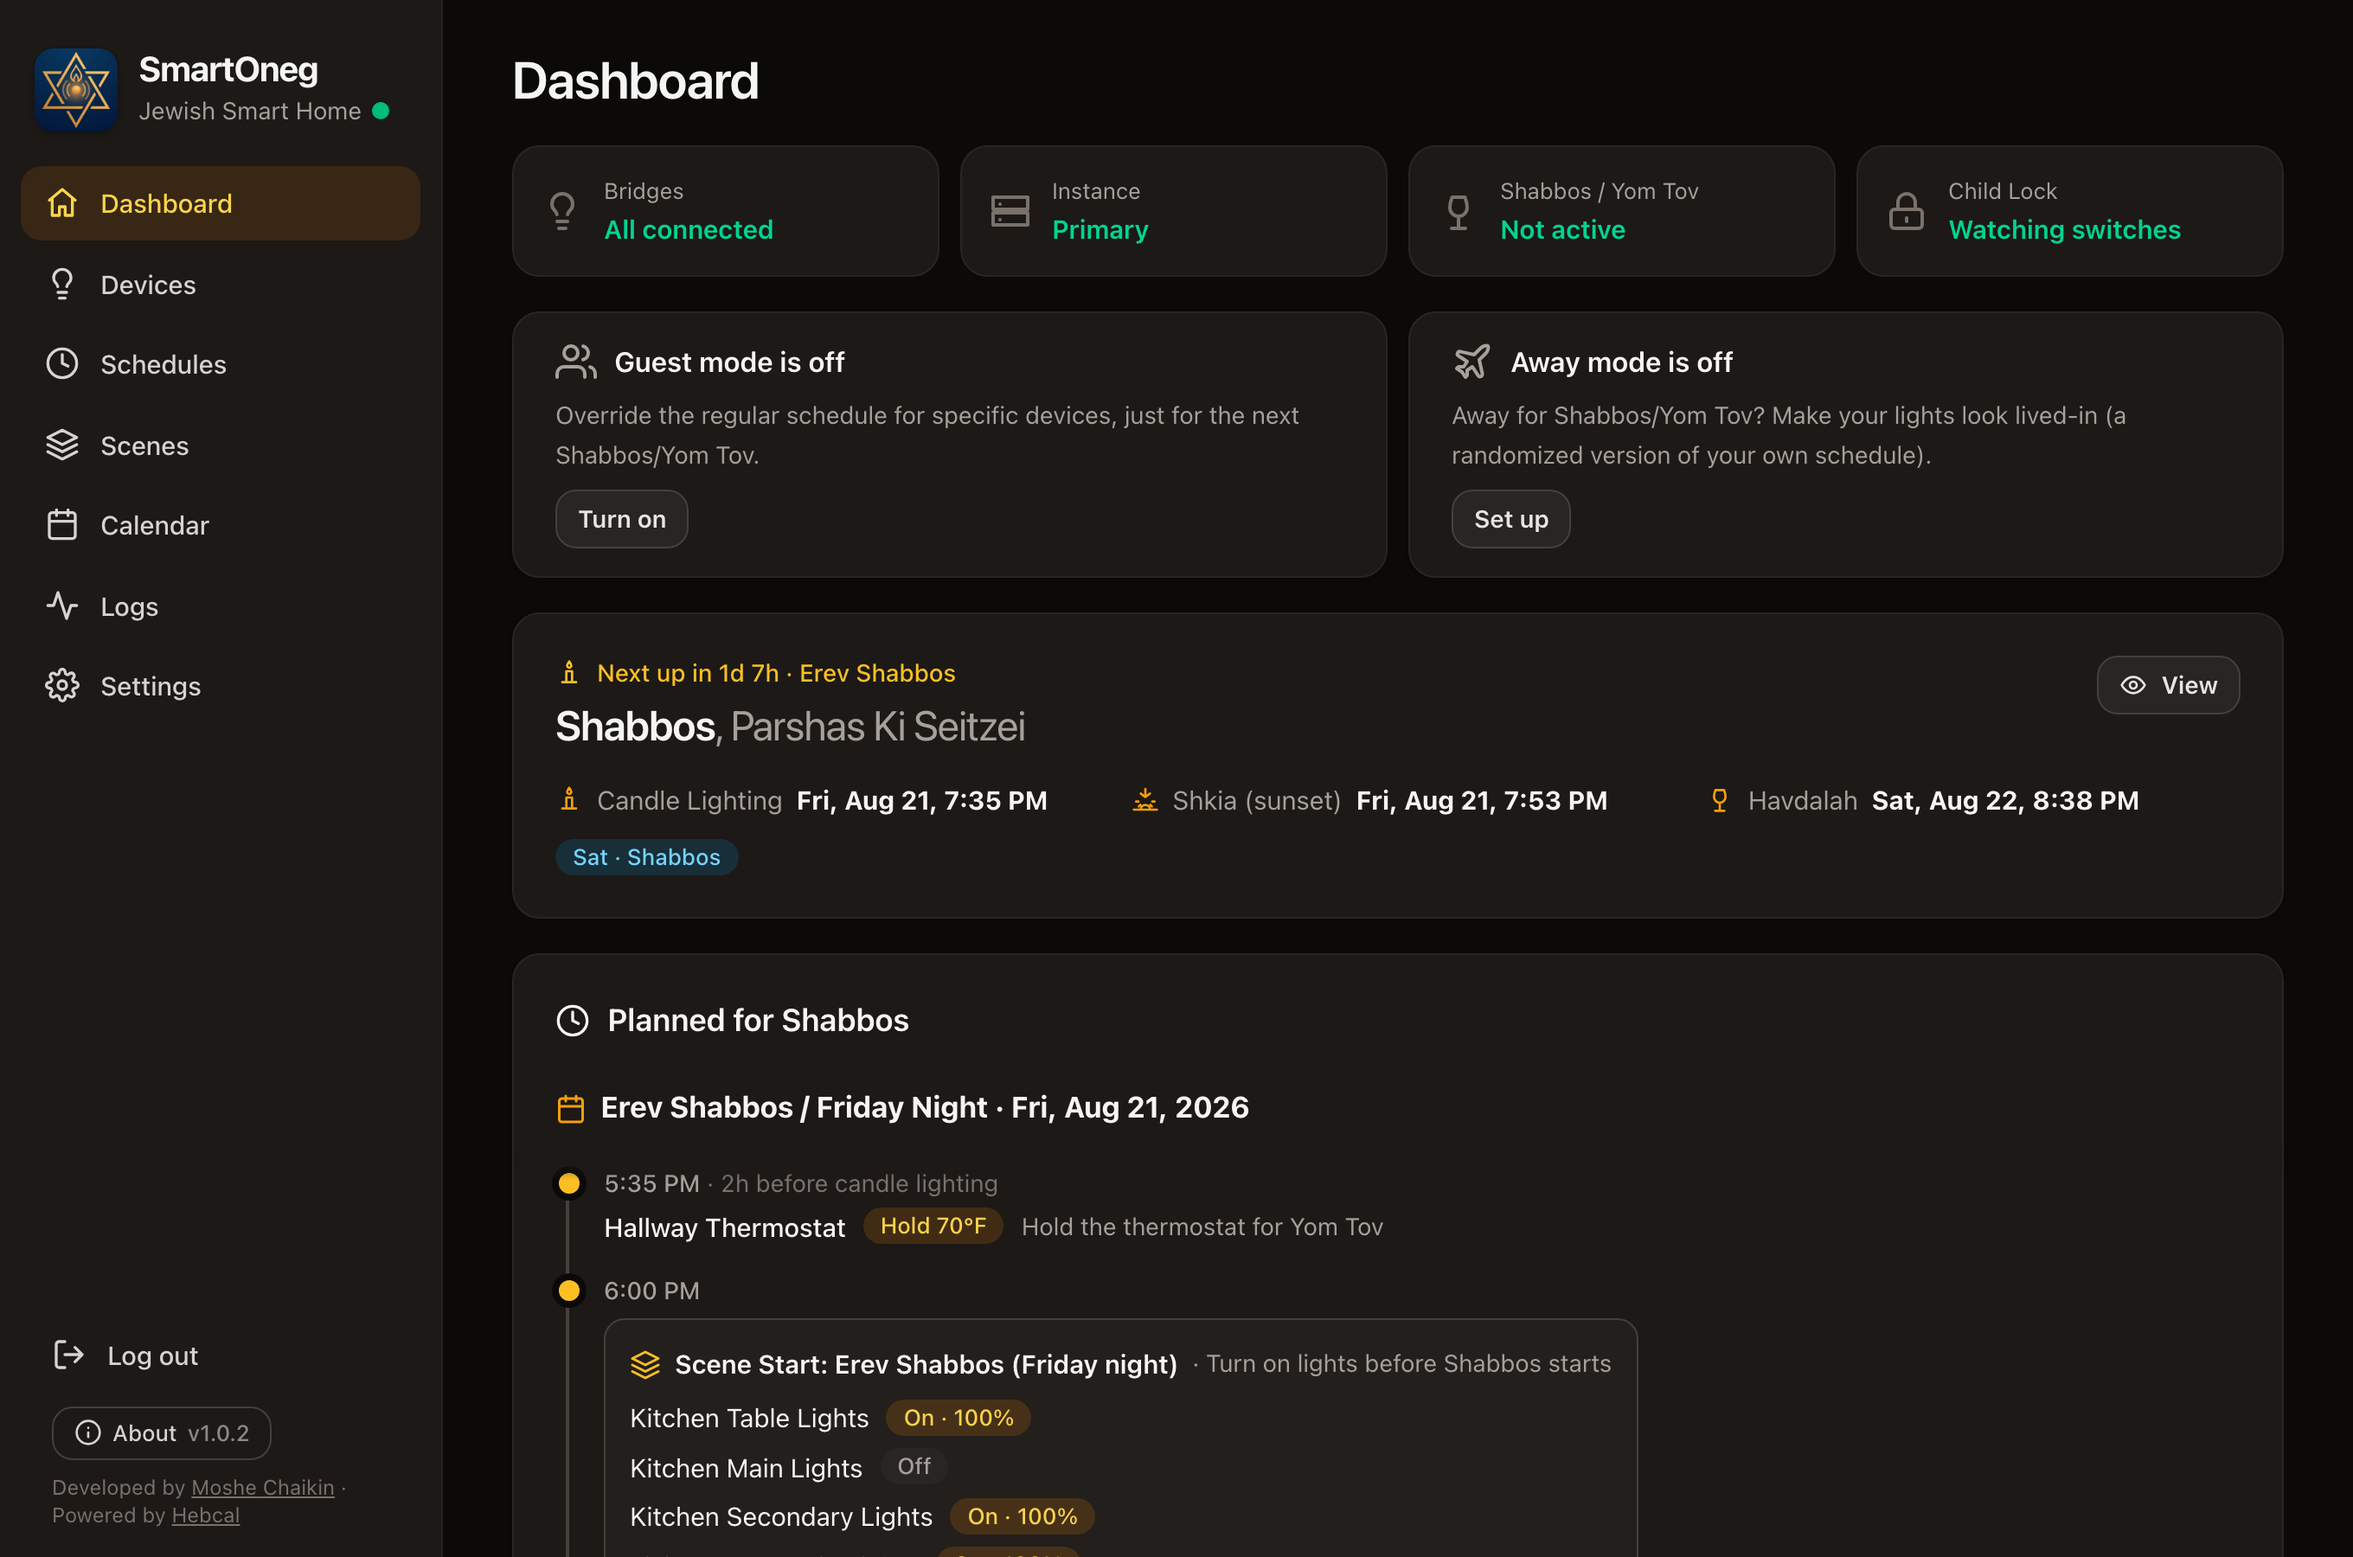
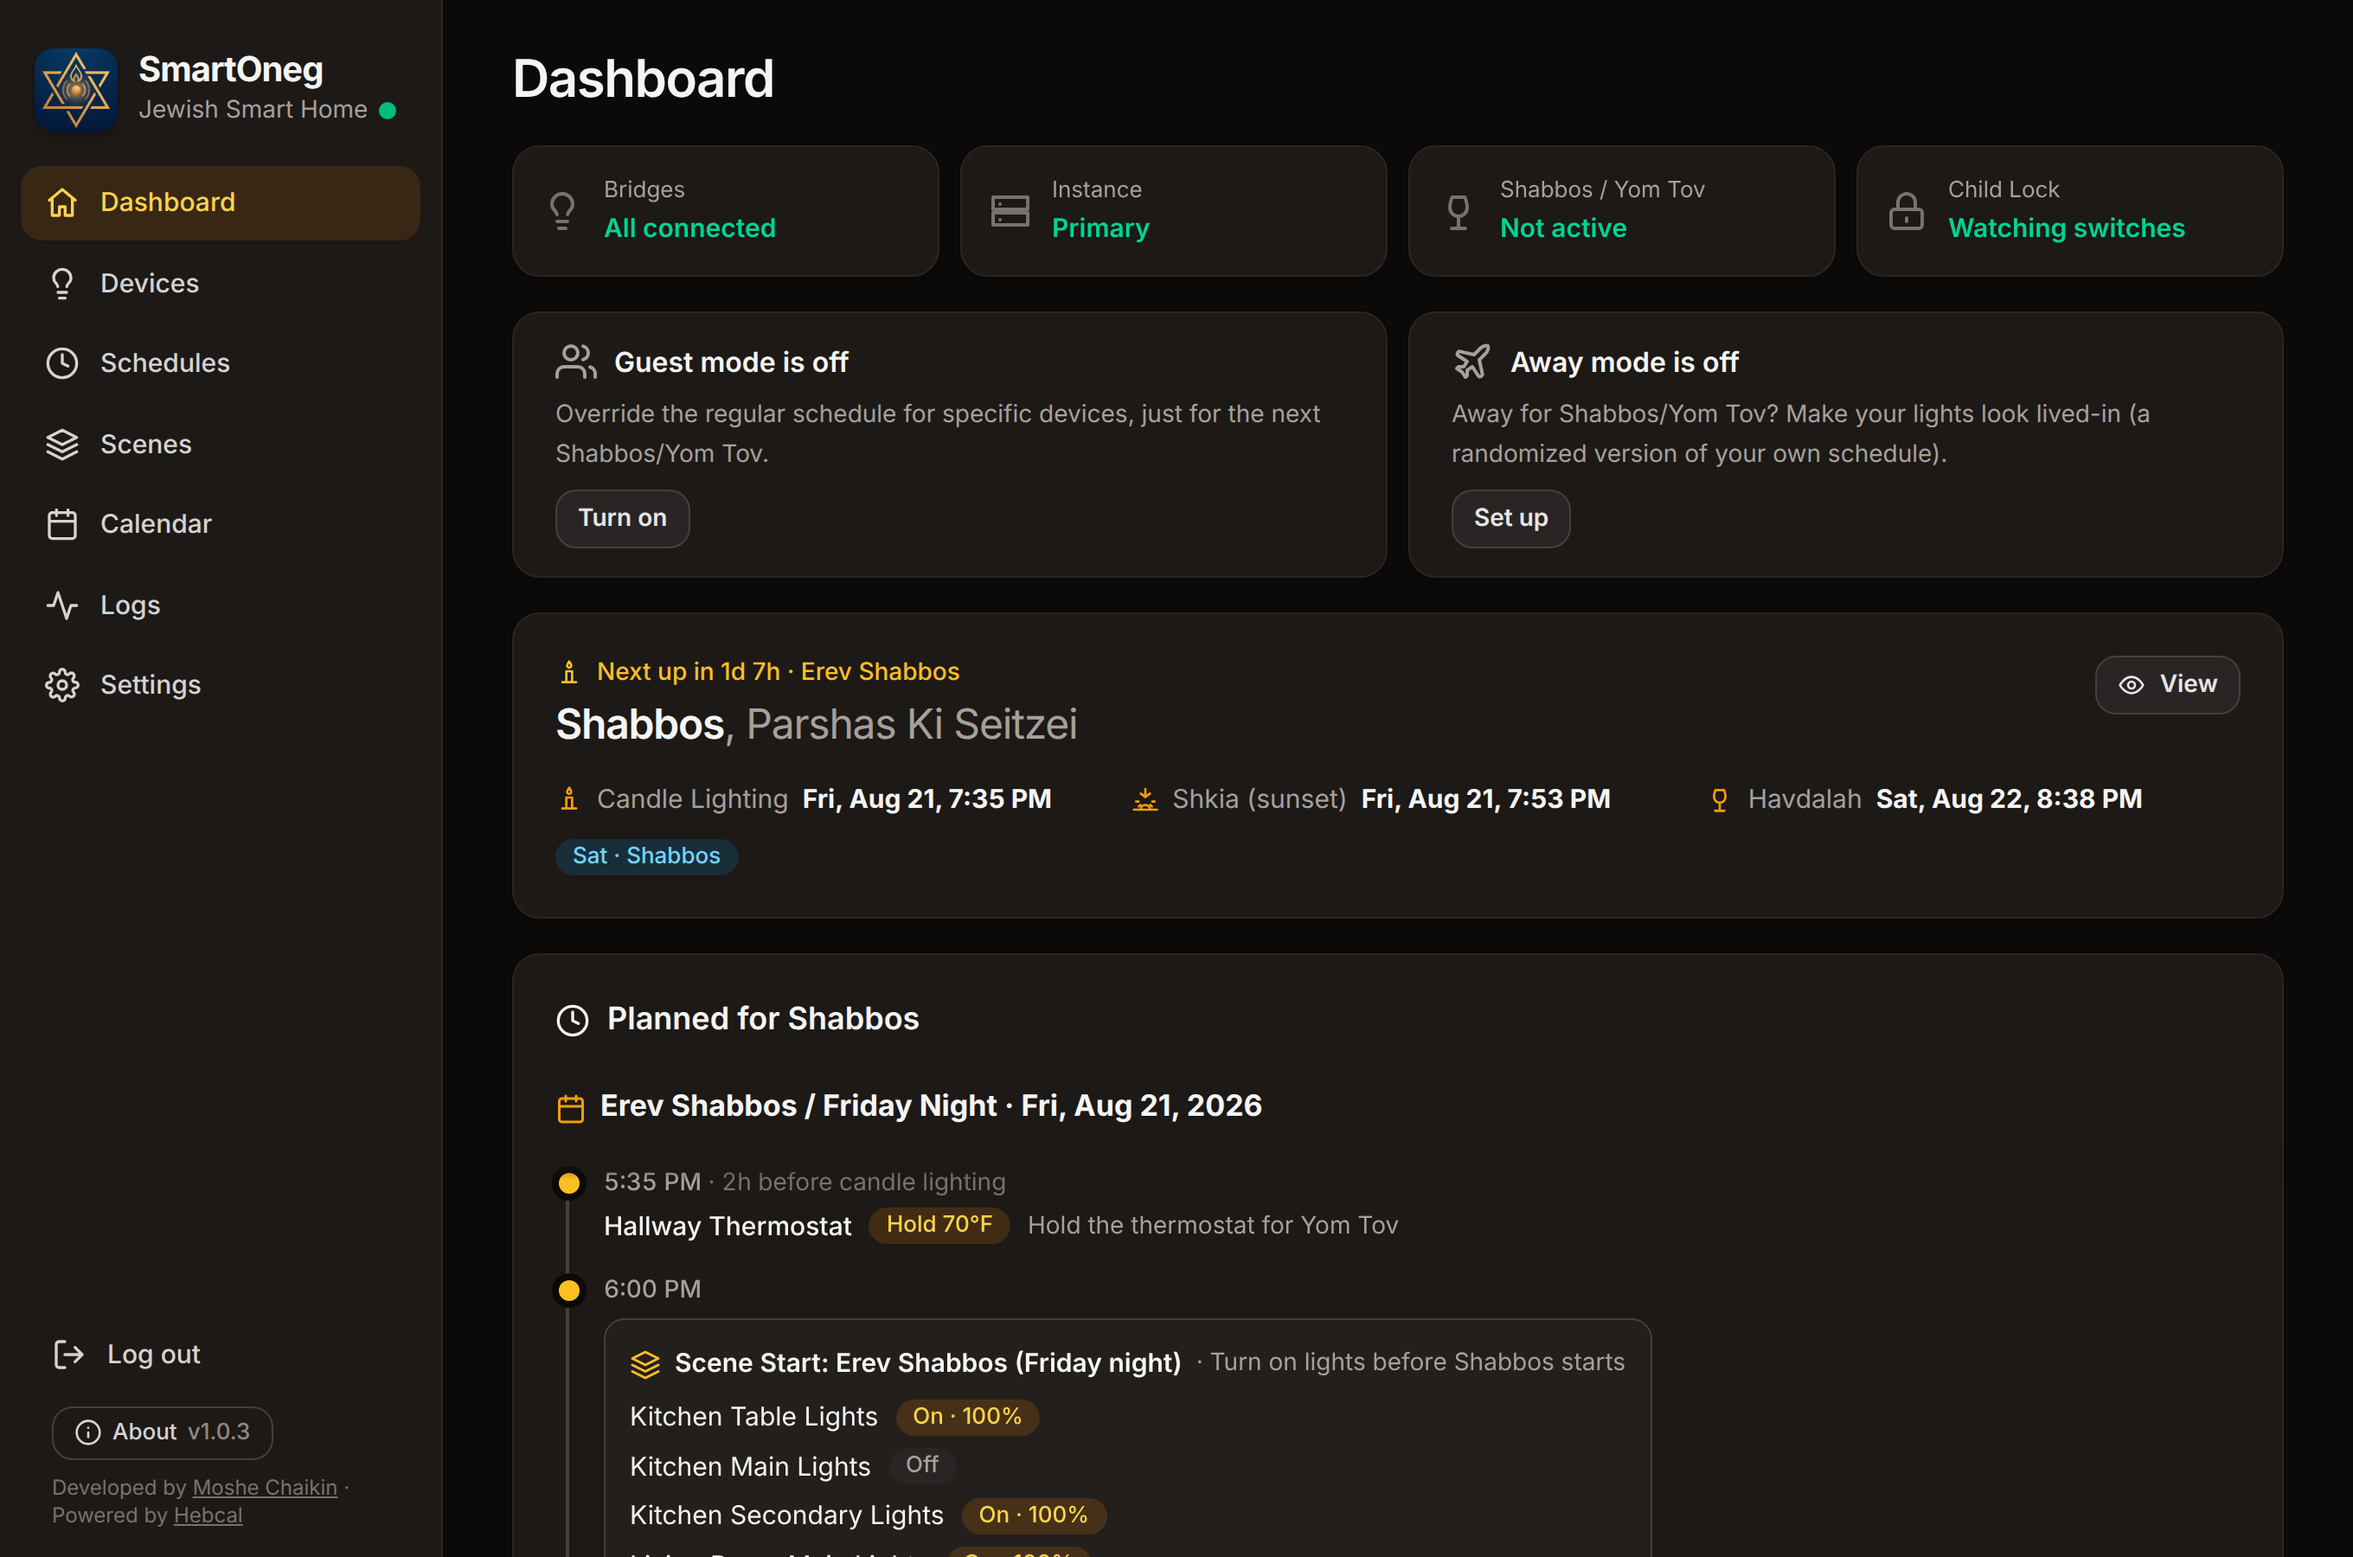
Release v1.0.3

diff --git a/public/js/version.js b/public/js/version.js
@@ -1,3 +1,3 @@
 // Single source of truth for the displayed app version (nav footer + About).
 // The release workflow rewrites this file; do not edit by hand.
-export const APP_VERSION = 'v1.0.2';
+export const APP_VERSION = 'v1.0.3';

diff --git a/smartoneg.com/demo/app/js/version.js b/smartoneg.com/demo/app/js/version.js
@@ -1,3 +1,3 @@
 // Single source of truth for the displayed app version (nav footer + About).
 // The release workflow rewrites this file; do not edit by hand.
-export const APP_VERSION = 'v1.0.2';
+export const APP_VERSION = 'v1.0.3';
